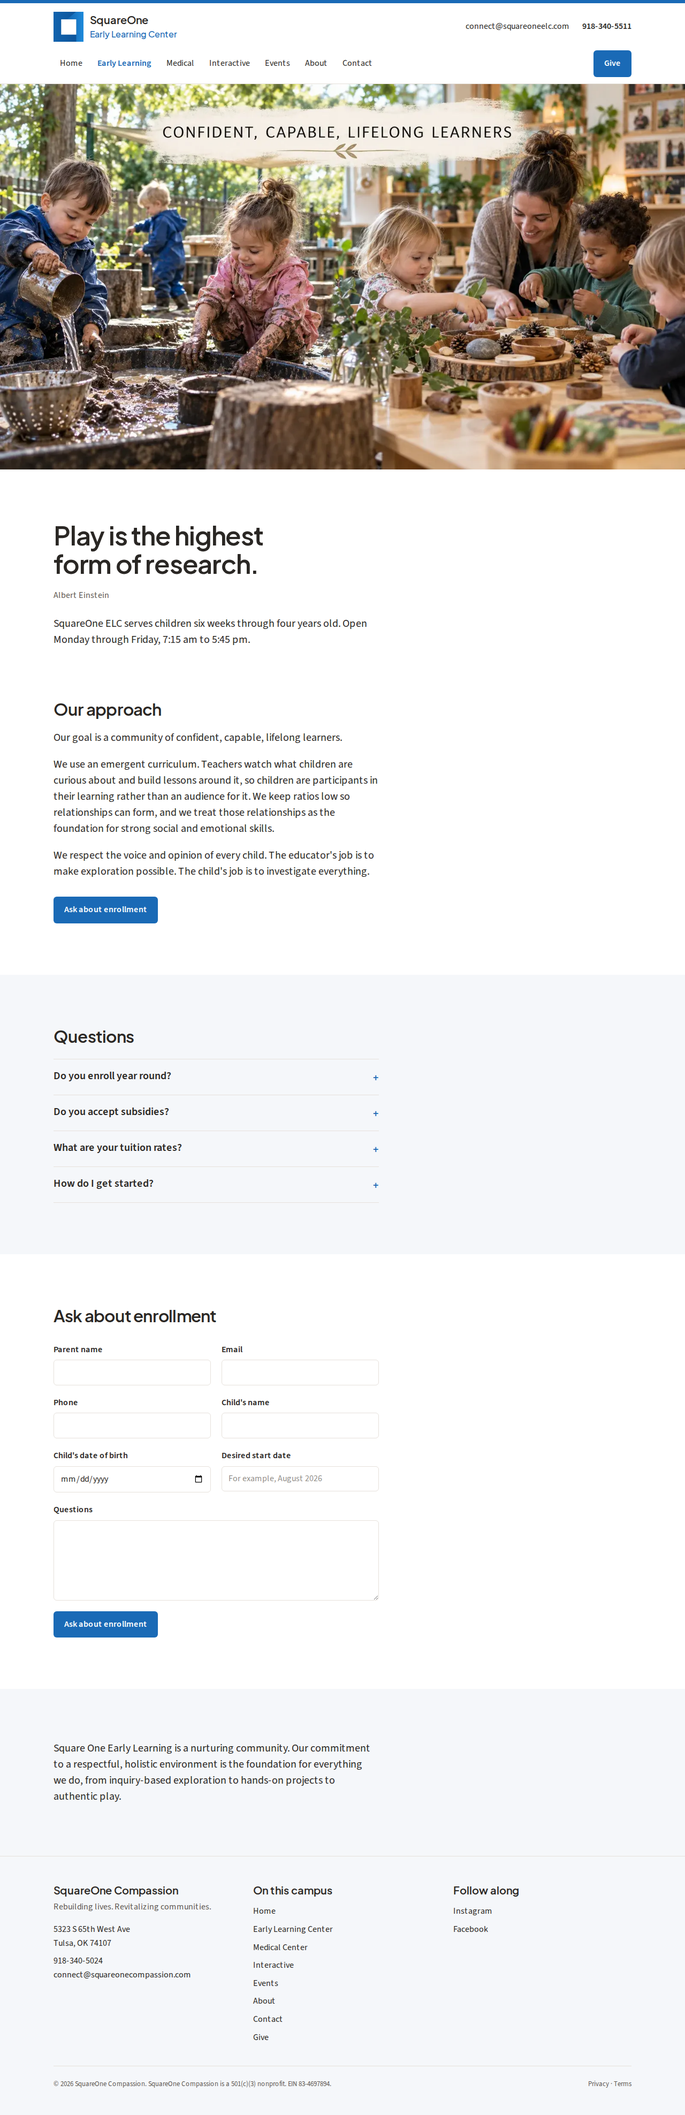
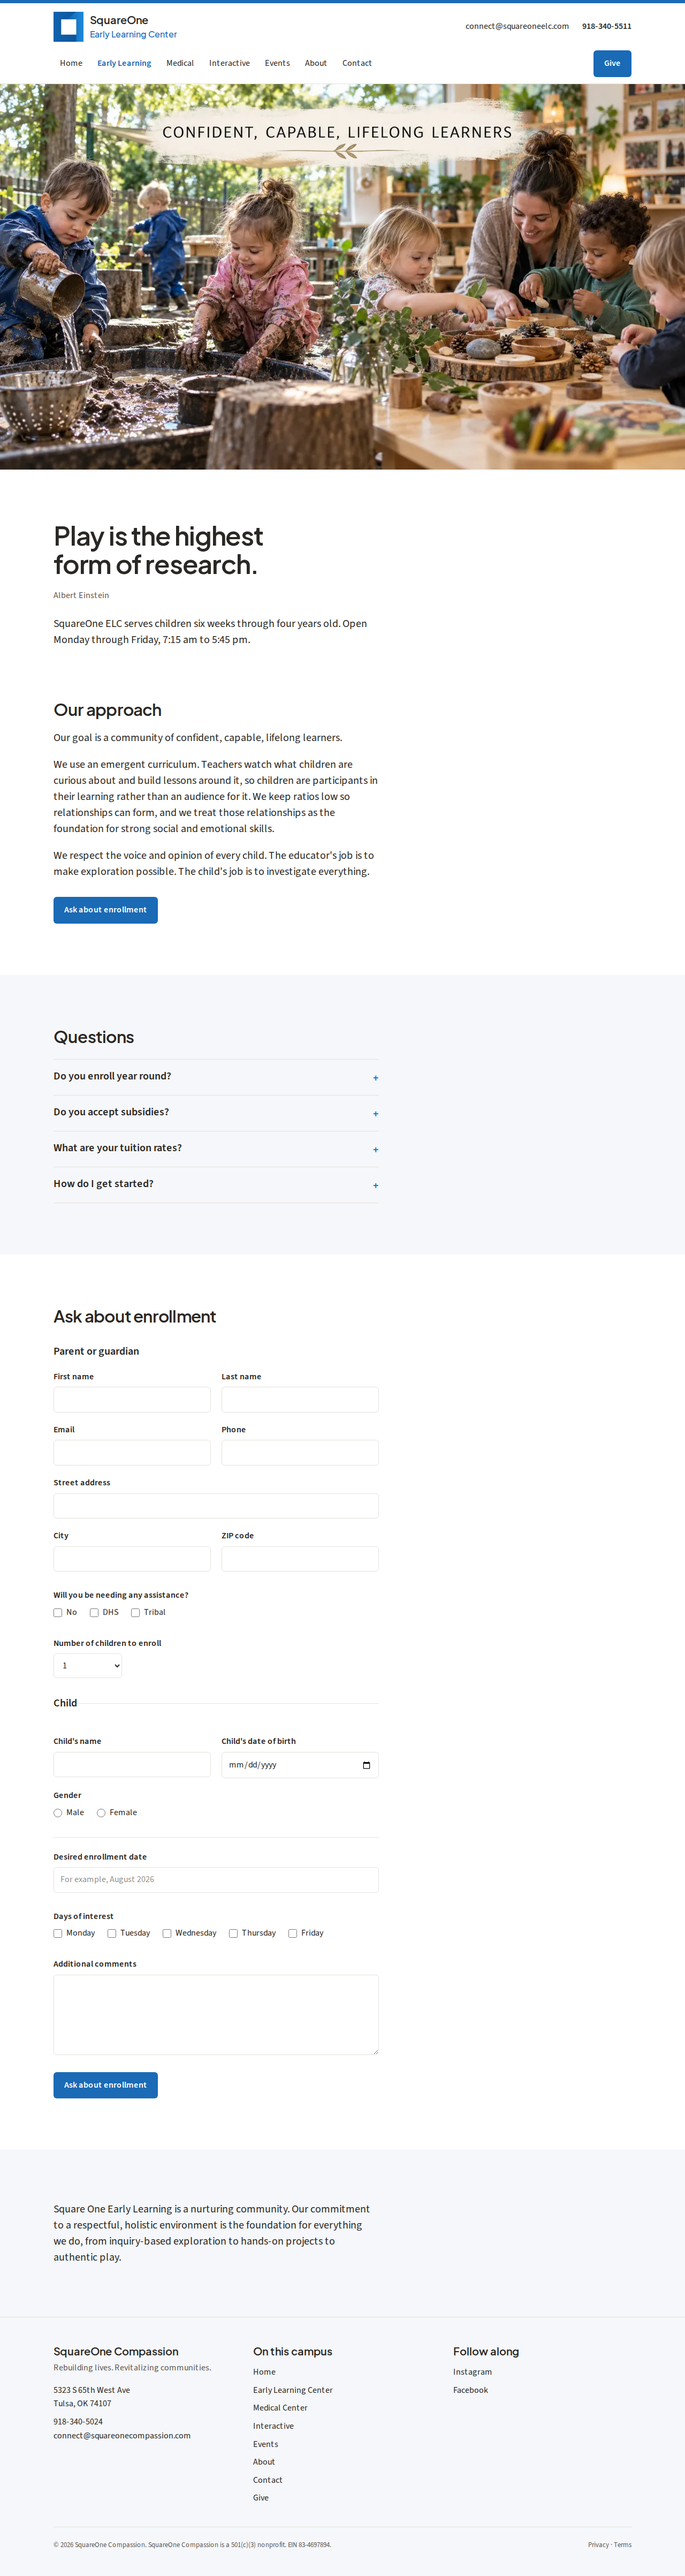
Expand the ELC enrollment form to match the old site's wait list form
Parent or guardian first and last name, email, phone, street address,
city, and ZIP; assistance needed (No, DHS, Tribal); number of children
with a name, date of birth, and gender block for each (up to four);
desired enrollment date; days of interest; and additional comments.
The notification email renders the nested fields readably. Validation
verified: a complete payload passes, an empty children list is rejected.

Claude-Session: https://claude.ai/code/session_01Dy1NBE1CDjARVuM4emY1ru

diff --git a/components/Form/EnrollmentForm.tsx b/components/Form/EnrollmentForm.tsx
@@ -1,11 +1,18 @@
 'use client'
 
+import { useState } from 'react'
 import { Honeypot } from './Honeypot'
-import { formToObject, useFormSubmit } from './useFormSubmit'
-import { FORM_SUCCESS } from '@/lib/forms'
+import { useFormSubmit } from './useFormSubmit'
+import { FORM_SUCCESS, ASSISTANCE_OPTIONS, GENDER_OPTIONS, DAY_OPTIONS, MAX_CHILDREN } from '@/lib/forms'
+
+type Child = { name: string; dob: string; gender: string }
+const emptyChild = (): Child => ({ name: '', dob: '', gender: '' })
 
 export function EnrollmentForm() {
   const { state, submit } = useFormSubmit()
+  const [children, setChildren] = useState<Child[]>([emptyChild()])
+  const [assistance, setAssistance] = useState<string[]>([])
+  const [days, setDays] = useState<string[]>([])
 
   if (state.status === 'success') {
     return (
@@ -15,59 +22,169 @@ export function EnrollmentForm() {
     )
   }
 
+  const toggle = (list: string[], set: (v: string[]) => void, value: string) => set(list.includes(value) ? list.filter((v) => v !== value) : [...list, value])
+  const setCount = (n: number) => setChildren((prev) => (n > prev.length ? [...prev, ...Array.from({ length: n - prev.length }, emptyChild)] : prev.slice(0, n)))
+  const updateChild = (i: number, patch: Partial<Child>) => setChildren((prev) => prev.map((c, j) => (j === i ? { ...c, ...patch } : c)))
+
   return (
     <form
-      className="relative max-w-prose space-y-5"
+      className="relative max-w-prose space-y-8"
       onSubmit={(e) => {
         e.preventDefault()
-        void submit({ kind: 'elc-enrollment', ...formToObject(e.currentTarget) })
+        const f = new FormData(e.currentTarget)
+        const text = (k: string) => String(f.get(k) ?? '')
+        void submit({
+          kind: 'elc-enrollment',
+          website: text('website'),
+          parentFirst: text('parentFirst'),
+          parentLast: text('parentLast'),
+          email: text('email'),
+          phone: text('phone'),
+          street: text('street'),
+          city: text('city'),
+          zip: text('zip'),
+          assistance,
+          children,
+          desiredStart: text('desiredStart'),
+          days,
+          comments: text('comments'),
+        })
       }}
     >
       <Honeypot />
-      <div className="grid gap-5 sm:grid-cols-2">
-        <div>
-          <label className="label" htmlFor="e-parent">
-            Parent name
-          </label>
-          <input className="field" id="e-parent" name="parentName" type="text" required autoComplete="name" />
+
+      <fieldset className="space-y-5">
+        <legend className="text-lg font-semibold">Parent or guardian</legend>
+        <div className="grid gap-5 sm:grid-cols-2">
+          <div>
+            <label className="label" htmlFor="e-first">
+              First name
+            </label>
+            <input className="field" id="e-first" name="parentFirst" type="text" required autoComplete="given-name" />
+          </div>
+          <div>
+            <label className="label" htmlFor="e-last">
+              Last name
+            </label>
+            <input className="field" id="e-last" name="parentLast" type="text" required autoComplete="family-name" />
+          </div>
+          <div>
+            <label className="label" htmlFor="e-email">
+              Email
+            </label>
+            <input className="field" id="e-email" name="email" type="email" required autoComplete="email" />
+          </div>
+          <div>
+            <label className="label" htmlFor="e-phone">
+              Phone
+            </label>
+            <input className="field" id="e-phone" name="phone" type="tel" required autoComplete="tel" />
+          </div>
         </div>
-        <div>
-          <label className="label" htmlFor="e-email">
-            Email
-          </label>
-          <input className="field" id="e-email" name="email" type="email" required autoComplete="email" />
+        <div className="grid gap-5 sm:grid-cols-2">
+          <div className="sm:col-span-2">
+            <label className="label" htmlFor="e-street">
+              Street address
+            </label>
+            <input className="field" id="e-street" name="street" type="text" autoComplete="street-address" />
+          </div>
+          <div>
+            <label className="label" htmlFor="e-city">
+              City
+            </label>
+            <input className="field" id="e-city" name="city" type="text" autoComplete="address-level2" />
+          </div>
+          <div>
+            <label className="label" htmlFor="e-zip">
+              ZIP code
+            </label>
+            <input className="field" id="e-zip" name="zip" type="text" inputMode="numeric" autoComplete="postal-code" />
+          </div>
         </div>
-        <div>
-          <label className="label" htmlFor="e-phone">
-            Phone
-          </label>
-          <input className="field" id="e-phone" name="phone" type="tel" required autoComplete="tel" />
+      </fieldset>
+
+      <fieldset>
+        <legend className="label">Will you be needing any assistance?</legend>
+        <div className="flex flex-wrap gap-x-6 gap-y-2">
+          {ASSISTANCE_OPTIONS.map((opt) => (
+            <label key={opt} className="inline-flex items-center gap-2">
+              <input type="checkbox" className="h-4 w-4 accent-[var(--accent)]" checked={assistance.includes(opt)} onChange={() => toggle(assistance, setAssistance, opt)} />
+              {opt}
+            </label>
+          ))}
         </div>
-        <div>
-          <label className="label" htmlFor="e-child">
-            Child&apos;s name
-          </label>
-          <input className="field" id="e-child" name="childName" type="text" required />
-        </div>
-        <div>
-          <label className="label" htmlFor="e-dob">
-            Child&apos;s date of birth
-          </label>
-          <input className="field" id="e-dob" name="childDob" type="date" required />
-        </div>
-        <div>
-          <label className="label" htmlFor="e-start">
-            Desired start date
-          </label>
-          <input className="field" id="e-start" name="desiredStart" type="text" required placeholder="For example, August 2026" />
-        </div>
-      </div>
+      </fieldset>
+
       <div>
-        <label className="label" htmlFor="e-questions">
-          Questions
+        <label className="label" htmlFor="e-count">
+          Number of children to enroll
         </label>
-        <textarea className="field" id="e-questions" name="questions" rows={5} />
+        <select className="field sm:max-w-32" id="e-count" value={children.length} onChange={(e) => setCount(Number(e.target.value))}>
+          {Array.from({ length: MAX_CHILDREN }, (_, i) => i + 1).map((n) => (
+            <option key={n} value={n}>
+              {n}
+            </option>
+          ))}
+        </select>
       </div>
+
+      {children.map((c, i) => (
+        <fieldset key={i} className="space-y-5 border-t border-line pt-6">
+          <legend className="text-lg font-semibold">{children.length > 1 ? `Child ${i + 1}` : 'Child'}</legend>
+          <div className="grid gap-5 sm:grid-cols-2">
+            <div>
+              <label className="label" htmlFor={`e-child-${i}`}>
+                Child&apos;s name
+              </label>
+              <input className="field" id={`e-child-${i}`} type="text" required value={c.name} onChange={(e) => updateChild(i, { name: e.target.value })} />
+            </div>
+            <div>
+              <label className="label" htmlFor={`e-dob-${i}`}>
+                Child&apos;s date of birth
+              </label>
+              <input className="field" id={`e-dob-${i}`} type="date" required value={c.dob} onChange={(e) => updateChild(i, { dob: e.target.value })} />
+            </div>
+          </div>
+          <fieldset>
+            <legend className="label">Gender</legend>
+            <div className="flex flex-wrap gap-x-6 gap-y-2">
+              {GENDER_OPTIONS.map((g) => (
+                <label key={g} className="inline-flex items-center gap-2">
+                  <input type="radio" name={`gender-${i}`} className="h-4 w-4 accent-[var(--accent)]" checked={c.gender === g} onChange={() => updateChild(i, { gender: g })} />
+                  {g}
+                </label>
+              ))}
+            </div>
+          </fieldset>
+        </fieldset>
+      ))}
+
+      <div className="border-t border-line pt-6">
+        <label className="label" htmlFor="e-start">
+          Desired enrollment date
+        </label>
+        <input className="field" id="e-start" name="desiredStart" type="text" required placeholder="For example, August 2026" />
+      </div>
+
+      <fieldset>
+        <legend className="label">Days of interest</legend>
+        <div className="flex flex-wrap gap-x-6 gap-y-2">
+          {DAY_OPTIONS.map((d) => (
+            <label key={d} className="inline-flex items-center gap-2">
+              <input type="checkbox" className="h-4 w-4 accent-[var(--accent)]" checked={days.includes(d)} onChange={() => toggle(days, setDays, d)} />
+              {d}
+            </label>
+          ))}
+        </div>
+      </fieldset>
+
+      <div>
+        <label className="label" htmlFor="e-comments">
+          Additional comments
+        </label>
+        <textarea className="field" id="e-comments" name="comments" rows={5} />
+      </div>
+
       {state.status === 'error' ? (
         <p role="alert" className="text-red-700">
           {state.error}

diff --git a/lib/forms.ts b/lib/forms.ts
@@ -2,6 +2,7 @@ import { z } from 'zod'
 
 const phone = z.string().trim().max(40)
 const email = z.string().trim().email().max(200)
+const optionalText = (max: number) => z.string().trim().max(max).optional().or(z.literal(''))
 
 export const contactSchema = z.object({
   kind: z.literal('contact'),
@@ -12,16 +13,33 @@ export const contactSchema = z.object({
   message: z.string().trim().min(1).max(5000),
 })
 
+export const ASSISTANCE_OPTIONS = ['No', 'DHS', 'Tribal'] as const
+export const GENDER_OPTIONS = ['Male', 'Female'] as const
+export const DAY_OPTIONS = ['Monday', 'Tuesday', 'Wednesday', 'Thursday', 'Friday'] as const
+export const MAX_CHILDREN = 4
+
+export const childSchema = z.object({
+  name: z.string().trim().min(1).max(120),
+  dob: z.string().trim().regex(/^\d{4}-\d{2}-\d{2}$/, 'Use YYYY-MM-DD'),
+  gender: z.enum(GENDER_OPTIONS).optional().or(z.literal('')),
+})
+
+// Matches the enrollment wait list form on the old site.
 export const elcEnrollmentSchema = z.object({
   kind: z.literal('elc-enrollment'),
   website: z.string().max(0).optional().or(z.literal('')), // honeypot
-  parentName: z.string().trim().min(1).max(120),
+  parentFirst: z.string().trim().min(1).max(80),
+  parentLast: z.string().trim().min(1).max(80),
   email,
   phone: phone.min(7),
-  childName: z.string().trim().min(1).max(120),
-  childDob: z.string().trim().regex(/^\d{4}-\d{2}-\d{2}$/, 'Use YYYY-MM-DD'),
+  street: optionalText(200),
+  city: optionalText(100),
+  zip: optionalText(20),
+  assistance: z.array(z.enum(ASSISTANCE_OPTIONS)).max(3).default([]),
+  children: z.array(childSchema).min(1).max(MAX_CHILDREN),
   desiredStart: z.string().trim().min(1).max(60),
-  questions: z.string().trim().max(5000).optional().or(z.literal('')),
+  days: z.array(z.enum(DAY_OPTIONS)).max(5).default([]),
+  comments: optionalText(5000),
 })
 
 export const formSchema = z.discriminatedUnion('kind', [contactSchema, elcEnrollmentSchema])
@@ -36,4 +54,23 @@ export const FORM_ROUTING: Record<FormKind, string> = {
 export const FORM_SUCCESS: Record<FormKind, string> = {
   contact: "Message sent. We'll reply within one business day.",
   'elc-enrollment': "Thanks. We'll reach out within two business days to schedule a tour.",
+}
+
+/** Plain-text rendering of a submission for the notification email. */
+export function describeSubmission(payload: Record<string, unknown>): string {
+  const lines: string[] = []
+  for (const [key, value] of Object.entries(payload)) {
+    if (value === undefined || value === '' || (Array.isArray(value) && value.length === 0)) continue
+    if (Array.isArray(value) && value.every((v) => typeof v === 'string')) {
+      lines.push(`${key}: ${(value as string[]).join(', ')}`)
+    } else if (Array.isArray(value)) {
+      value.forEach((item, i) => {
+        lines.push(`${key} ${i + 1}:`)
+        for (const [k, v] of Object.entries(item as Record<string, unknown>)) if (v !== undefined && v !== '') lines.push(`  ${k}: ${v}`)
+      })
+    } else {
+      lines.push(`${key}: ${value}`)
+    }
+  }
+  return lines.join('\n')
 }

diff --git a/app/api/forms/route.ts b/app/api/forms/route.ts
@@ -1,5 +1,5 @@
 import { NextResponse } from 'next/server'
-import { formSchema, FORM_ROUTING } from '@/lib/forms'
+import { formSchema, FORM_ROUTING, describeSubmission } from '@/lib/forms'
 import { supabaseAdmin } from '@/lib/supabase'
 import { sendEmail } from '@/lib/email'
 
@@ -24,7 +24,7 @@ export async function POST(req: Request) {
   }
   const { website: _honeypot, kind, ...payload } = parsed.data
   void _honeypot
-  const who = parsed.data.kind === 'contact' ? parsed.data.name : parsed.data.parentName
+  const who = parsed.data.kind === 'contact' ? parsed.data.name : `${parsed.data.parentFirst} ${parsed.data.parentLast}`
   const subject = kind === 'contact' ? `Website contact from ${who}` : `ELC enrollment interest from ${who}`
 
   const db = supabaseAdmin()
@@ -38,11 +38,10 @@ export async function POST(req: Request) {
     return NextResponse.json({ ok: false, error: 'Something went wrong. Please call us instead.' }, { status: 500 })
   }
 
-  const lines = Object.entries(payload).map(([k, v]) => `${k}: ${v || ''}`)
   await sendEmail({
     to: FORM_ROUTING[kind],
     subject,
-    text: `New ${kind} submission from squareonecompassion.com\n\n${lines.join('\n')}`,
+    text: `New ${kind} submission from squareonecompassion.com\n\n${describeSubmission(payload as Record<string, unknown>)}`,
     replyTo: payload.email,
   })
 

diff --git a/content/COPY.md b/content/COPY.md
@@ -155,7 +155,7 @@ Yes. We accept DHS and tribal childcare reimbursement, and we offer a tuition as
 *How do I get started?*
 Fill out the enrollment interest form below or call 918-623-4377 to schedule a tour.
 
-**Enrollment interest form fields:** parent name, email, phone, child's name, child's date of birth, desired start date, questions.
+**Enrollment interest form fields** (matches the old site's enrollment wait list form): parent or guardian first and last name, email, phone, street address, city, ZIP code, "Will you be needing any assistance?" (No, DHS, Tribal), number of children to enroll (1 to 4), then per child: name, date of birth, gender (Male, Female); desired enrollment date; days of interest (Monday to Friday); additional comments.
 **Form success:** Thanks. We'll reach out within two business days to schedule a tour.
 
 **Closing:** Square One Early Learning is a nurturing community. Our commitment to a respectful, holistic environment is the foundation for everything we do, from inquiry-based exploration to hands-on projects to authentic play.
